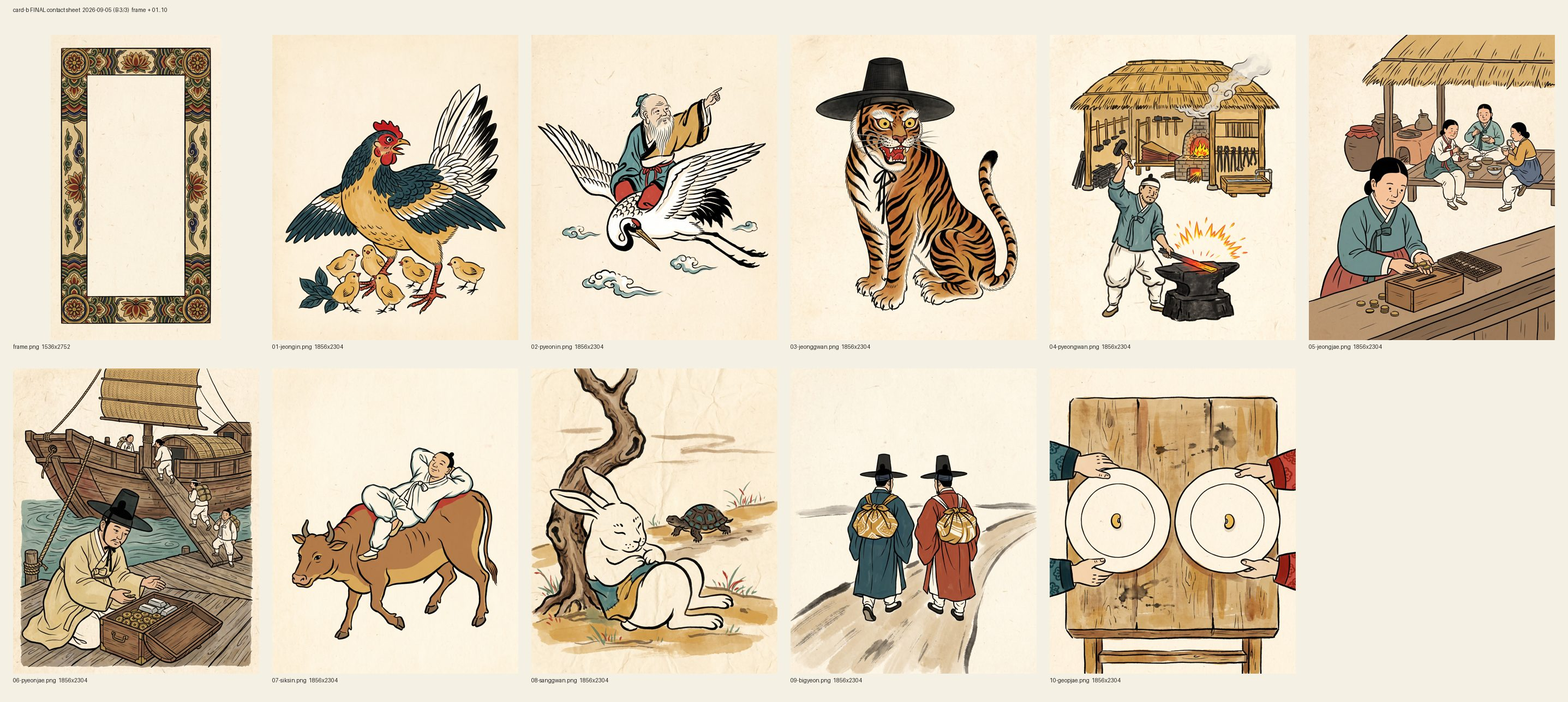
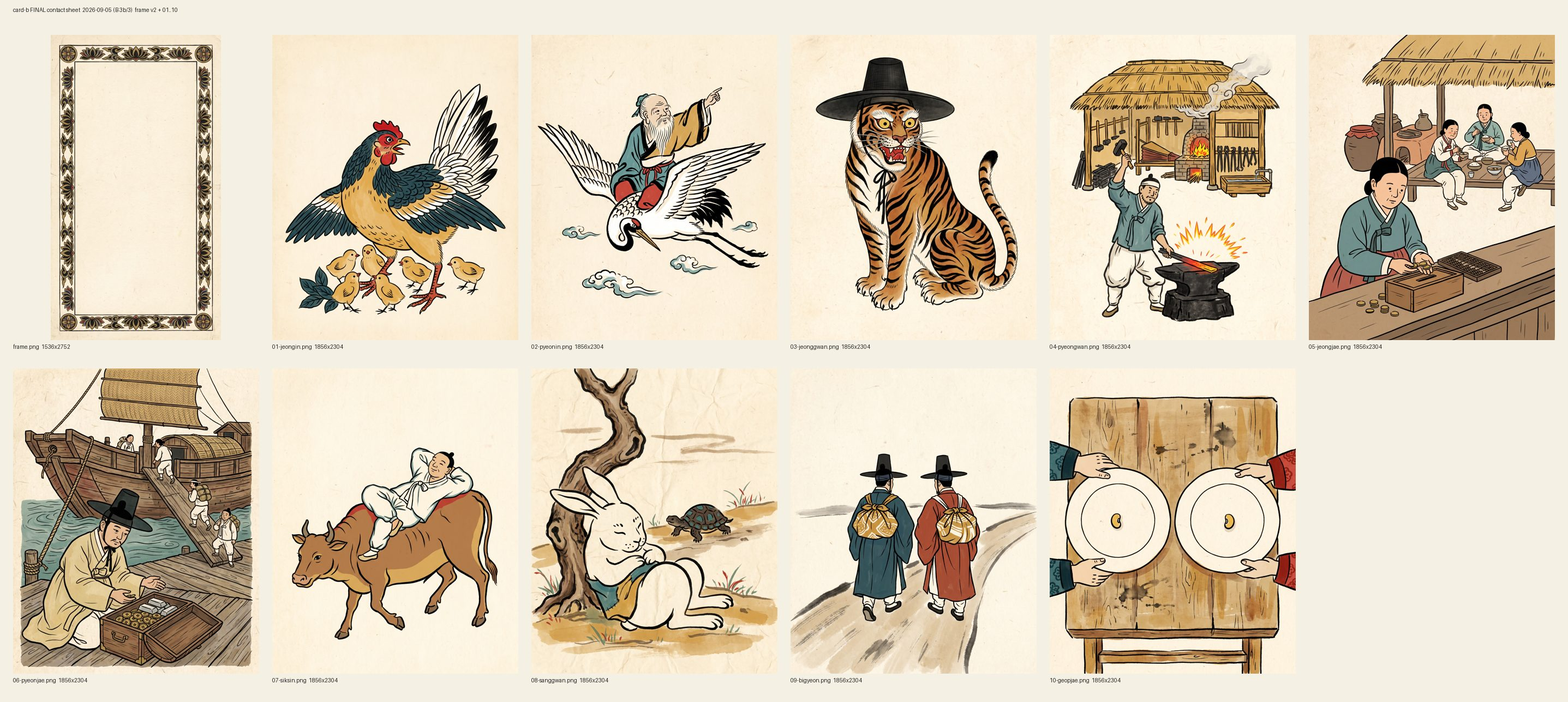
docs(보고): 2026-09-05 B 3b/3 테두리 재생성·카드 재조정 회차 보고 + 갈무리 5장(06·09·10 포함) + 최종 시트 갱신
테두리 3장 실측(폭 9.3~9.9/10.4~10.7/14.1%, 빈 영역 비 0.480/0.491/0.475) 전부 기준 미달 → 1차본 조건부 채택.
배포 재실측: 자가진단 56/56, 첫 카드 678ms, 명암비 5색 동일, 그림 잘림 0, 명패 278px(기준 190 초과 → 사용자 결정).

Claude-Session: https://claude.ai/code/session_019ZdmJVFjTzJap7dMSypjcG

Changed region(s): [[0.031, 0.0621, 0.1548, 0.4969]]

diff --git a/docs/reports/2026-09-05-B3b-테두리-재조정.md b/docs/reports/2026-09-05-B3b-테두리-재조정.md
@@ -1,0 +1,91 @@
+# 회차 보고 — B 3b/3 테두리 재생성 + 카드 재조정 [2026-09-05]
+
+**실행 모델**: Claude Fable 5.1.
+**적정성**: 테두리 세 장을 픽셀로 재고 기준 미달을 판정해 채택 여부를 정해야 했다. **적정했다.**
+**다음 회차 모델 [권장]**: 테두리 기준을 다시 잡아 재생성하는 회차면 Fable 5.1, 실기기 보고 반영이면 Sonnet 5.
+
+**비용 수준**: 중간(지시문과 일치) — Magnific 테두리 3장(본 1 + 재시도 2, 225 크레딧) + 코드 조정 + 배포 실측.
+
+> **용어** — *빈 영역*: 테두리 안쪽의 그림·명패가 들어가는 크림색 사각형. *가로/세로 비*: 빈 영역 폭 ÷ 높이.
+> *fit*: 그림을 자르지 않고 4:5 그대로 넣는 방식. *명패*: 그림 아래 오방색 띠(글자 3줄).
+
+## 0. 한 줄 요약
+
+**테두리 세 장 모두 기준 ①(테두리 폭 7~9%)·②(빈 영역 가로/세로 0.50~0.56)에 못 미쳤다.** 가장 가까운 1차본
+(9.3~9.9% / 0.480)을 **조건부 채택**해 카드를 fit으로 바꿔 배포했다 — 그림 10장 좌우 잘림 0. 명패 높이는 **278px**로
+기준(≤190)을 넘는다(§3). 배포 주소 재실측 전부 통과(자가진단 56/56, 첫 카드 678ms, 명암비 5색 동일).
+
+## 1. 착수 전 점검
+
+`git fetch` 후 `origin/main...main` = `0 0`. 작업 트리 깨끗함. 그림 10장은 손대지 않았다.
+
+## 2. 테두리 생성 · 판정 (Nano Banana Pro 2k, 9:16 → 1536×2752, 프롬프트 지시문 그대로)
+
+측정법: 밝기<110 픽셀을 가운데 행·열 + 30~70% 지점 5곳에서 훑어 테두리 바깥/안쪽 가장자리를 잡고, 빈 영역은 안쪽 8px을
+들여 밝기 평균·표준편차·최솟값을 냈다(`measure_frame.py`, 스크래치).
+
+| 시도 | 테두리 폭(좌/우/상/하, 카드 폭 대비) | 빈 영역(px) | 가로/세로 | 빈 영역 순도 | 글자·낙관 | 결 | 판정 |
+|---|---|---|---|---|---|---|---|
+| 1차 **(채택)** | 9.3 / 9.8 / 9.9 / 9.7 % | 1091×2275 | **0.480** | 평균 236, 표준편차 3.2 | 없음 | 먹·금, 연꽃·구름, 모서리 원문 ✓ | ① 살짝 초과 · ② 미달 |
+| 2차 | 10.7 / 10.7 / 10.4 / 10.5 % | 1162×2368 | 0.491 | 평균 240, 표준편차 3.4 | 모서리에 **卍**·학 문양 | 청·적이 섞임 | ①②④ 미달 |
+| 3차 | 14.1 % 사방(종이 여백 0) | 1102×2320 | 0.475 | 평균 244, 표준편차 2.9 | 없음 | 청·적 섞임, 띠 두꺼움 | ①② 미달 |
+
+- **왜 ②가 안 나오나**: 9:16 캔버스(가로/세로 0.5625)에서 띠 폭이 β일 때 빈 영역 비는 (1−2β)/(1.78−2β)다.
+  β=7~9%면 0.52~0.51이 나오지만, **종이 여백이 조금만 들어가도**(1차 좌우 5%·상하 3%) 0.48로 떨어진다. 세 번 모두
+  "one twelfth"(8.3%)보다 두껍게 그렸다. 프롬프트를 못 바꾸는 조건에서 더 돌려도 같은 계열이라 멈췄다.
+- 1차본을 채택한 근거: v1(0.44)보다 빈 영역이 크고(카드 470폭 기준 267×608 → **334×696**), 결이 v1과 같은 계열이며
+  빈 영역이 깨끗하다. 2·3차는 색·문양(卍)에서도 어긋난다.
+- 파일: `assets/card-b/frame.png`(1차본) · `frame-v1.png`(옛 것) · `web/frame.webp`(900×1612, 147KB). 2·3차는 남기지
+  않았다(alt/ 없음).
+
+## 3. 카드 재조정 (구현값, 카드 폭 470 기준)
+
+- `CARD_B.PIC_FIT` ~~'cover'~~ → **'fit'**. 빈 영역 실측 비율을 `CARD_B.frame.inner`에 갱신(220/1536, 245/2752, 1091/1536, 2275/2752).
+- 빈 영역 **334×696** → 그림 **334×418**(4:5 그대로, `uw=vh=1` — 잘림 0) → 명패 **278px**.
+- **명패 278 > 190 기준.** 지시대로 그림을 늘리지 않았다. 글자 3줄(18/27/20px, 덩어리 약 100px)은 띠 세로 가운데에 놓았다.
+  → §6 ① 선택지.
+- 오방색 2px 선·리본·바닥 서명 그대로. 두 장 폭 980(90.7%) 그대로.
+
+## 4. 배포 주소 재실측 (https://shyquisyz.github.io/group-saju/, 19:30:33 반영, 해시 `2906c3e89681cfb6`)
+
+| 항목 | 결과 |
+|---|---|
+| ① 데모 쌍 셋 | 나↔어머니(딱지) · 나↔아버지(없음) · 나↔긴 이름(21자) — 잘림·겹침·글자 밀림 0 |
+| ② 명암비(픽셀) | 청 6.84 · 적 5.95 · 황 9.63 · 백 15.56 · 흑 17.12 (3/3과 동일 — 색 안 바꿈) |
+| ③ 320px·데스크톱 | 320 iframe(뷰포트 316): 시트 278px, 캔버스 224×280, 버튼 487·542 < 636, 가로 넘침 없음. 자가진단 배포 56/56 · 로컬 56/56 |
+| ④ 생성 시간 | 첫 장 **678ms**(적재 676 + 그리기 2), 둘째 201ms. 기준 3초 |
+| ⑤ 첫 화면 | 새로 열고 3초: 자원 12건 중 card-b 0 · card-bg 0 |
+| 그림 잘림 | 모든 쌍에서 `pic.uw=1, vh=1`. 09·10·06 갈무리로 눈 확인 — 나그네 둘·접시 둘·배와 상자 다 들어 있음 |
+
+갈무리(`docs/reports/2026-09-05-card-b/`): `b3b-card-badge-06.jpg`(06 편재, 딱지) · `b3b-card-09.jpg`(비견, 합성 인물 「벗」 丙) ·
+`b3b-card-10.jpg`(겁재, 「아우」 丁) · `b3b-card-nobadge.jpg` · `b3b-card-longname.jpg`. 최종 시트 `contact-sheet-final.jpg` 갱신(frame v2).
+
+**사용자 데이터**: 저장본 읽기만. 백업(세션 저장소) 대비 `people`·`groups`·`links` 동일(9명·6그룹·isMe 1), `savedAt`만 앱이 갱신.
+
+## 5. 실기기 재확인 목록
+
+- 카톡 미리보기에서 **278px 명패**가 너무 비어 보이지 않는지(글자 덩어리 100px, 위아래 여백 각 ~90px).
+- 얇아진 테두리(9.3~9.9%)가 폰 축소에서 단청 문양으로 읽히는지.
+- iOS 공유 시트·저장은 3/3과 동선 동일 — 그림이 커져 PNG 용량 확인.
+
+## 6. 사용자 결정 필요 — 2건
+
+1. **명패 278px(기준 190 초과).** (a) 그대로 두고 글자만 가운데 `[권장]` — 그림은 4:5 온전, 띠가 넓어 오방색이 잘 보인다.
+   (b) 명패 글자 크기를 한 단계 키운다(18/27/20 → 22/32/24, 덩어리 ~120px) — 카드 비례가 바뀐다.
+   (c) 테두리를 다시 생성해 빈 영역 비 0.50~0.56을 맞춘다 — 프롬프트에 "no paper margin, border exactly 8%…"처럼
+   여백 금지를 넣어야 하고(변경 승인 필요), 그래도 명패는 ~250px이다(빈 영역 폭 391이면 그림 489, 남는 269).
+   **기준 190은 9:16 테두리에서 산술적으로 안 나온다** — 띠 7%(33px)라면 빈 영역 404×770 → 그림 505 → 명패 265,
+   띠 9%(42px)라면 386×752 → 그림 483 → 명패 269. 어느 쪽이든 190을 넘는다.
+2. **테두리 1차본 조건부 채택 승인.** ① 9.3~9.9%(기준 9 이하) ② 0.480(기준 0.50 이상). (a) 승인 `[권장]` (b) v1로 되돌림(그림 334→267로 작아짐) (c) ①-(c)와 묶어 재생성.
+
+## 7. 그냥 진행함
+
+- 세 장 모두 미달인데 빈자리로 두지 않고 1차본을 채택했다 — 2단계(카드 재조정)와 3단계(배포 실측)가 테두리를 전제한다.
+- fit 모드의 명패 글자를 세로 가운데로 옮기는 코드를 넣었다(지시 2번). cover로 되돌려도 같은 코드가 종전 위치를 낸다.
+- 2·3차 테두리는 저장소에 남기지 않았다("alt/ 생기면 삭제").
+- 320px은 크롬 최소 창폭 때문에 로컬 iframe으로 쟀다(3/3과 같은 방법).
+
+## 8. 로컬 서버 · 커밋
+
+로컬 서버(8903) 내렸다(포트 닫힘 확인). 브라우저 탭 닫음.
+커밋: 테두리·코드 `308d057` · 보고(이 파일 + 갈무리 5장 + 최종 시트).
